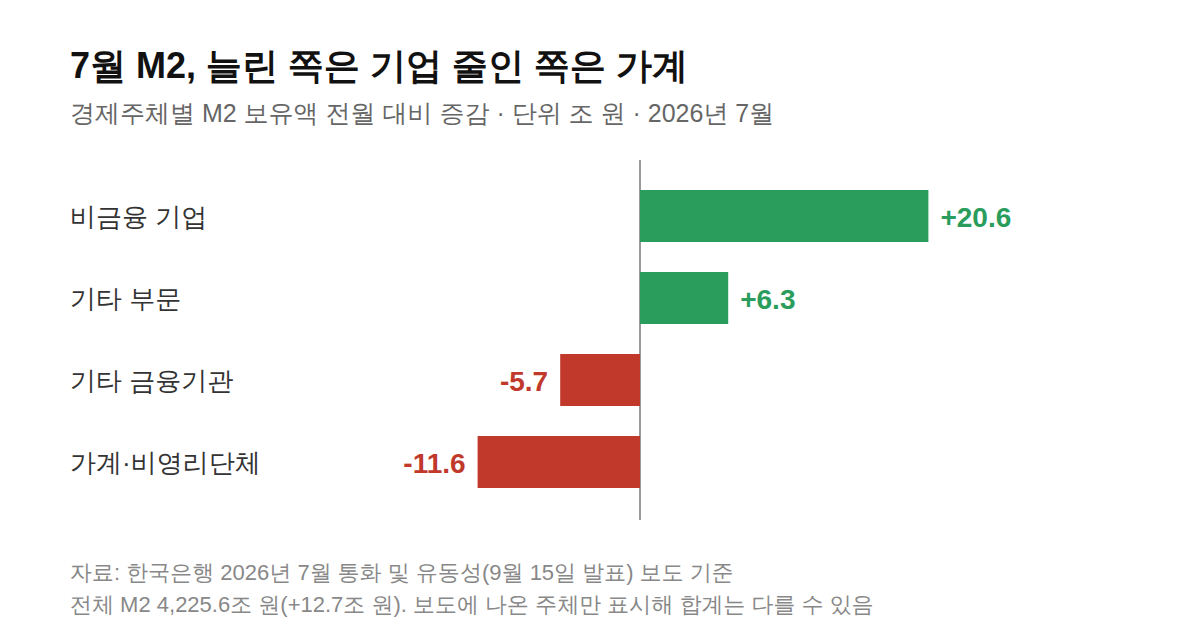
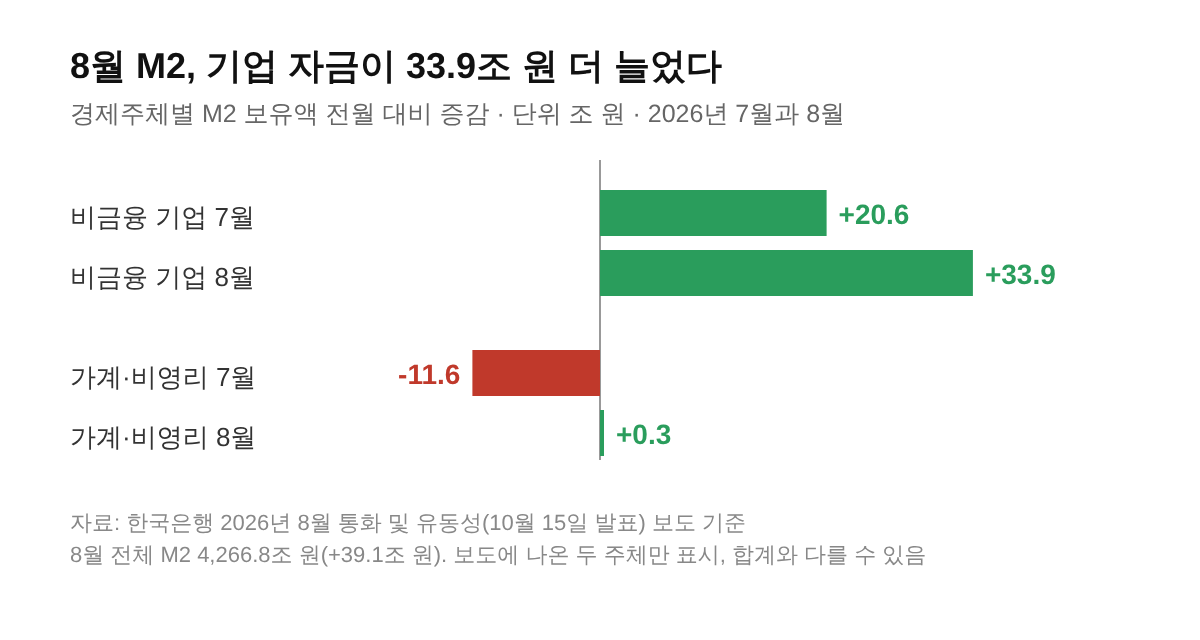
122편 갱신(티스토리 재반영 필요): 8월 M2 4,266.8조 원 반영, 기업·가계 증감 그림 교체, 검산 갱신
Claude-Session: https://claude.ai/code/session_01TDvA8ryNz9WPVNnjpAzoLV

diff --git a/stock_drafts/money-supply-m2-redefinition-guide.md b/stock_drafts/money-supply-m2-redefinition-guide.md
@@ -15,19 +15,19 @@ serp_check: |
   → 탈락조건 1~3 모두 미해당, 통과.
 unique_asset: |
   (a) M1 대 M2 구성 비교표와 개편 전후 비교표(수익증권 제외, 초대형 IB 발행어음 포함).
-  (b) 2026년 7월 M2 현재 수치 표(4,225.6조 원, +12.7조 원 등)와 경제주체별 증감 막대 그림.
-  (c) 보도에 나온 실제 수치로 한 전월 대비 증가율 검산(12.7 / 4,212.9 = 0.30%)과 증가율 계산식.
+  (b) 2026년 8월 M2 현재 수치 표(4,266.8조 원, +39.1조 원 등)와 7·8월 경제주체별 증감 막대 그림.
+  (c) 보도에 나온 실제 수치로 한 전월 대비 증가율 검산(39.1 / 4,227.7 = 0.92%)과 증가율 계산식.
 primary_source: |
   1차 출처인 한국은행 bok.or.kr WebFetch 1회 EGRESS_BLOCKED(2026-10-03). 뉴스 사이트 2곳(joseilbo, SBS Biz) WebFetch도 EGRESS_BLOCKED라 WebSearch 요약 단계 교차검증만 가능했다.
   교차검증: 2025년 12월 개편(수익증권 제외, 초대형 IB 발행어음 포함, 증가율 8.7%에서 5.2%, 총통화 409조 5천억 원 감소, 1년 병행 공표)은 한국경제·메트로서울·조세일보·네이트(연합 계열)가 충돌 없이 일치. 2026년 7월 수치(4,225.6조 원, +12.7조 원, +0.3%, 전년 동월 대비 +5.8%, 9개월 연속 증가, 2년 미만 정기예적금 +27.3조 원, 기업 +20.6조 원·가계 -11.6조 원)는 이투데이·글로벌이코노믹·포인트데일리·와이드경제·서플·네이트가 일치.
   다만 현재 값 유형의 숫자라 RULES 「독자 관점 점검」 4번에 따라 한국은행 보도자료 원문 대조 전에는 gate_pass를 true로 하지 않는다.
-기준일: 2026년 10월 기준 (수치는 2026년 7월 통계, 한국은행 2026년 9월 15일 발표)
-refresh_due: 2026-10-16
+기준일: 2026년 10월 기준 (수치는 2026년 8월 통계, 한국은행 2026년 10월 15일 발표)
+refresh_due: 2026-11-16
 tags: 통화량, 통화량 뜻, M2, 광의통화, M1 협의통화, 통화 및 유동성, 한국은행 통계 개편, 수익증권 제외, M2 증가율, 주식 용어
 gate_pass: true
 gate_pass_note: |
   게이트1·2·3 충족. 게이트4는 교차검증으로 진행했지만 현재 수치(2026년 7월 M2)가 한국은행 원문 미확인이라 gate_pass:false. 발행 전 사람이 할 일: capture_guide 1순위 화면(7월 통화 및 유동성 보도자료)을 캡처해 올려주세요. 값이 일치하면 gate_pass를 true로 바꾸면 됩니다. 8월 통계가 10월 15일 발표 예정이라 그 전에 발행하면 refresh_due(10월 16일)에 바로 갱신 대상이 됩니다.
-  [2026-10-05 보류 해제] 2026년 7월 M2 수치와 개편 내용은 보도 6곳 이상이 같은 숫자로 일치 — 「주제 선정 v3」·지표 현재값 규칙(언론 2곳 이상 동일 수치면 통과) 적용. 8월분 발표(10/15) 뒤 refresh_due로 갱신.
+  [2026-10-16 갱신: 8월분(10/15 발표) 반영. 헤럴드경제·디지털타임스·이투데이·데일리안·더파워뉴스가 4,266.8조·+39.1조·0.9%·전년 5.6%를 동일하게 보도, 기업 33.9조·가계 0.3조도 일치. 한국은행 원문 미접속] [2026-10-05 보류 해제] 2026년 7월 M2 수치와 개편 내용은 보도 6곳 이상이 같은 숫자로 일치 — 「주제 선정 v3」·지표 현재값 규칙(언론 2곳 이상 동일 수치면 통과) 적용. 8월분 발표(10/15) 뒤 refresh_due로 갱신.
 self_check: |
   후보 경위: backlog.verified의 단순 순서 대기 후보 중 디플레이션 뜻(900회)을 먼저 검토했으나 게이트2에서 한국은행·KDI·기획재정부·위키·KB·토스뱅크·나무위키 등 사전형 SERP로 채워져 탈락조건 1·3에 해당해 backlog에 기록. 다음 후보 통화량 뜻(830회)을 채택. 버핏지수 뜻(640회)은 시가총액·GDP 최신 수치 출처가 없어 이번 편에서 제외.
   YMYL: 종목 추천·목표가·매매시점 없음. M2 증감으로 주가 방향을 단정하지 않고 경로와 한계를 적음.
@@ -42,20 +42,20 @@ self_check: |
 figure_plan: "1장으로 충분 — 경제주체별 M2 증감. 나머지 표는 현재 수치·개편 전후 정의 비교라 표가 읽기 쉬움"
 ---
 
-<p style="font-size:13px;color:#888;">최종 검토일: 2026-10-05</p>
+<p style="font-size:13px;color:#888;">최종 검토일: 2026-10-16</p>
 
 <p>2025년 말 한국은행이 통계를 개편하면서 M2 증가율이 개편 전 8.7%에서 개편 후 5.2%로 3.5%포인트 내려앉았습니다. <mark>통화량 M2는 현금과 요구불예금에 2년 미만 예적금, CD, RP 같은 상품을 더한 광의통화</mark>이고, 개편 뒤에는 ETF 등 수익증권이 빠졌습니다.</p>
 
 <div style="background:#eef8ee;border:2px solid #3a9a4a;border-radius:10px;padding:16px 20px;margin:24px 0;">
   <strong style="color:#1f6b2c;font-size:18px;">🌱 숫자를 읽기 전에 알아 둘 것</strong>
-  <ul style="margin:10px 0 0 0;padding-left:20px;line-height:1.8;"><li>M1은 바로 꺼내 쓰는 돈이고, M2는 거기에 만기 2년 미만의 예적금과 시장형 상품을 더한 범위입니다.</li><li>개편으로 총통화 규모가 409조 5천억 원 줄었고, 개편 후 1년간 새 M2와 옛 M2를 함께 공표합니다.</li><li>2026년 7월 M2는 보도 기준 4,225.6조 원이고, 늘린 쪽은 기업, 줄어든 쪽은 가계였습니다.</li></ul>
+  <ul style="margin:10px 0 0 0;padding-left:20px;line-height:1.8;"><li>M1은 바로 꺼내 쓰는 돈이고, M2는 거기에 만기 2년 미만의 예적금과 시장형 상품을 더한 범위입니다.</li><li>개편으로 총통화 규모가 409조 5천억 원 줄었고, 개편 후 1년간 새 M2와 옛 M2를 함께 공표합니다.</li><li>2026년 8월 M2는 보도 기준 4,266.8조 원으로 한 달 새 39.1조 원(0.9%) 늘었고, 증가분의 대부분은 기업 몫이었습니다.</li></ul>
 </div>
 
 <h2>목차</h2>
 <ol style="line-height:1.9;">
   <li><a href="#sec-1" style="color:inherit;text-decoration:underline;text-underline-offset:3px;">통화량 M1과 M2는 무엇이 다른가</a></li>
   <li><a href="#sec-2" style="color:inherit;text-decoration:underline;text-underline-offset:3px;">2025년 말 개편으로 M2에서 빠진 것과 들어온 것</a></li>
-  <li><a href="#sec-3" style="color:inherit;text-decoration:underline;text-underline-offset:3px;">2026년 7월 M2 현재 수치</a></li>
+  <li><a href="#sec-3" style="color:inherit;text-decoration:underline;text-underline-offset:3px;">2026년 8월 M2 현재 수치</a></li>
   <li><a href="#sec-4" style="color:inherit;text-decoration:underline;text-underline-offset:3px;">M2 증가율 계산법</a></li>
   <li><a href="#sec-5" style="color:inherit;text-decoration:underline;text-underline-offset:3px;">주식 투자자에게 왜 중요한가</a></li>
 </ol>
@@ -98,50 +98,50 @@ figure_plan: "1장으로 충분 — 경제주체별 M2 증감. 나머지 표는 
 
 <p>같은 돈이라도 어디에 담겨 있느냐에 따라 M2에 잡히기도, 빠지기도 하는 거죠. A씨가 정기예금 1,000만 원을 해지해 ETF를 사면, 개편 전에는 M2 안에서 자리만 옮겼지만 개편 후에는 M2에서 줄어든 것으로 잡힙니다.</p>
 
-<p>한국은행은 혼선을 줄이려고 개편 후 1년간 새 M2와 옛 M2 총액을 함께 공표한다고 밝혔습니다. 두 숫자가 섞이면 증가율 비교가 어긋나므로 어느 기준인지부터 봐야 해요. 이 글의 4,225.6조 원은 보도에서 개편 후 기준으로 소개된 값입니다.</p>
+<p>한국은행은 혼선을 줄이려고 개편 후 1년간 새 M2와 옛 M2 총액을 함께 공표한다고 밝혔습니다. 두 숫자가 섞이면 증가율 비교가 어긋나므로 어느 기준인지부터 봐야 해요. 이 글의 4,266.8조 원은 보도에서 개편 후 기준으로 소개된 값입니다.</p>
 
 <div style="background:#eef8ee;border:2px solid #3a9a4a;border-radius:10px;padding:16px 20px;margin:24px 0;">
   <strong style="color:#1f6b2c;font-size:18px;">💡 ETF가 빠지면 달라지는 점</strong>
   <ul style="margin:10px 0 0 0;padding-left:20px;line-height:1.8;"><li>예금에서 ETF·펀드로 돈이 옮겨 가면 새 M2는 줄어드는 쪽으로 움직입니다.</li><li>ETF가 무엇인지 먼저 알고 싶다면 <a href="https://sensitiveboss3.tistory.com/entry/etf-basics-holdings" target="_blank" rel="noopener">ETF 뜻과 구성 종목 보는 법</a> 글부터 읽어 보세요.</li></ul>
 </div>
 
-<h2 id="sec-3" style="scroll-margin-top:72px;border-left:6px solid #3a9a4a;padding-left:12px;margin-top:36px;">2026년 7월 M2 현재 수치</h2>
+<h2 id="sec-3" style="scroll-margin-top:72px;border-left:6px solid #3a9a4a;padding-left:12px;margin-top:36px;">2026년 8월 M2 현재 수치</h2>
 
-<p>2026년 7월 M2 평균 잔액은 4,225.6조 원으로, 전월보다 12.7조 원(0.3%) 늘어 9개월 연속 증가했습니다. 아래 수치는 한국은행이 2026년 9월 15일 발표한 내용을 전한 보도를 교차해 정리한 값입니다.</p>
+<p>2026년 8월 M2 평균 잔액은 4,266.8조 원으로, 전월보다 39.1조 원(0.9%) 늘어 10개월 연속 증가했습니다. 아래 수치는 한국은행이 2026년 10월 15일 발표한 내용을 전한 보도를 교차해 정리한 값입니다.</p>
 
 <table style="border-collapse:collapse;width:100%;margin:16px 0;font-size:14px;">
-  <caption style="text-align:left;font-weight:bold;padding-bottom:6px;">M2(광의통화, 계절조정 평잔) 최신 수치 (보도 기준 2026년 10월 3일)</caption>
+  <caption style="text-align:left;font-weight:bold;padding-bottom:6px;">M2(광의통화, 계절조정 평잔) 최신 수치 (보도 기준 2026년 10월 16일)</caption>
   <thead>
     <tr style="background:#eef8ee;"><th style="border:1px solid #ddd;padding:8px;">항목</th><th style="border:1px solid #ddd;padding:8px;">값</th><th style="border:1px solid #ddd;padding:8px;">기준 시점</th></tr>
   </thead>
   <tbody>
-    <tr><td style="border:1px solid #ddd;padding:8px;">M2 평균 잔액</td><td style="border:1px solid #ddd;padding:8px;">4,225.6조 원</td><td style="border:1px solid #ddd;padding:8px;">2026년 7월</td></tr>
-    <tr><td style="border:1px solid #ddd;padding:8px;">전월 대비 증가</td><td style="border:1px solid #ddd;padding:8px;">+12.7조 원 (+0.3%)</td><td style="border:1px solid #ddd;padding:8px;">2026년 7월</td></tr>
-    <tr><td style="border:1px solid #ddd;padding:8px;">전년 동월 대비</td><td style="border:1px solid #ddd;padding:8px;">+5.8%</td><td style="border:1px solid #ddd;padding:8px;">2026년 7월</td></tr>
-    <tr><td style="border:1px solid #ddd;padding:8px;">2년 미만 정기예적금</td><td style="border:1px solid #ddd;padding:8px;">+27.3조 원 (2022년 12월 이후 최대 증가)</td><td style="border:1px solid #ddd;padding:8px;">2026년 7월</td></tr>
-    <tr><td style="border:1px solid #ddd;padding:8px;">옛 M2(수익증권 포함)</td><td style="border:1px solid #ddd;padding:8px;">전월 대비 0.8% 감소</td><td style="border:1px solid #ddd;padding:8px;">2026년 7월</td></tr>
-    <tr><td style="border:1px solid #ddd;padding:8px;">발표 기관</td><td style="border:1px solid #ddd;padding:8px;"><a href="https://www.bok.or.kr" target="_blank" rel="noopener">한국은행</a> 통화 및 유동성 (통계는 <a href="https://ecos.bok.or.kr" target="_blank" rel="noopener">ECOS</a>)</td><td style="border:1px solid #ddd;padding:8px;">2026년 9월 15일 발표</td></tr>
-    <tr><td style="border:1px solid #ddd;padding:8px;">다음 발표(8월 통계)</td><td style="border:1px solid #ddd;padding:8px;">2026년 10월 15일 예정 (경제지표 일정 서비스 기준)</td><td style="border:1px solid #ddd;padding:8px;">-</td></tr>
+    <tr><td style="border:1px solid #ddd;padding:8px;">M2 평균 잔액</td><td style="border:1px solid #ddd;padding:8px;">4,266.8조 원</td><td style="border:1px solid #ddd;padding:8px;">2026년 8월</td></tr>
+    <tr><td style="border:1px solid #ddd;padding:8px;">전월 대비 증가</td><td style="border:1px solid #ddd;padding:8px;">+39.1조 원 (+0.9%, 7월은 +0.3%)</td><td style="border:1px solid #ddd;padding:8px;">2026년 8월</td></tr>
+    <tr><td style="border:1px solid #ddd;padding:8px;">전년 동월 대비</td><td style="border:1px solid #ddd;padding:8px;">+5.6% (7월은 5.8%)</td><td style="border:1px solid #ddd;padding:8px;">2026년 8월</td></tr>
+    <tr><td style="border:1px solid #ddd;padding:8px;">2년 미만 정기예적금</td><td style="border:1px solid #ddd;padding:8px;">+28.7조 원 (2년 미만 금전신탁 +14.2조 원, MMF +12.6조 원)</td><td style="border:1px solid #ddd;padding:8px;">2026년 8월</td></tr>
+    <tr><td style="border:1px solid #ddd;padding:8px;">옛 M2(수익증권 포함)</td><td style="border:1px solid #ddd;padding:8px;">전월 대비 0.7% 증가 (7월은 0.8% 감소)</td><td style="border:1px solid #ddd;padding:8px;">2026년 8월</td></tr>
+    <tr><td style="border:1px solid #ddd;padding:8px;">발표 기관</td><td style="border:1px solid #ddd;padding:8px;"><a href="https://www.bok.or.kr" target="_blank" rel="noopener">한국은행</a> 통화 및 유동성 (통계는 <a href="https://ecos.bok.or.kr" target="_blank" rel="noopener">ECOS</a>)</td><td style="border:1px solid #ddd;padding:8px;">2026년 10월 15일 발표</td></tr>
+    <tr><td style="border:1px solid #ddd;padding:8px;">다음 발표(9월 통계)</td><td style="border:1px solid #ddd;padding:8px;">2026년 11월 중순 (한국은행 발표 일정 미확인)</td><td style="border:1px solid #ddd;padding:8px;">-</td></tr>
   </tbody>
 </table>
 
-<p>위 값은 보도 6곳 이상이 일치한 내용이고, 한국은행 원문 대조는 아직 거치지 않았습니다. 발표가 나오면 이 표를 새 값으로 바꿀 거예요.</p>
+<p>위 값은 보도 5곳 이상이 같은 숫자로 전한 내용이고, 한국은행 원문 대조는 아직 거치지 않았습니다. 9월 통계가 나오면 이 표를 새 값으로 바꿀 거예요.</p>
 
-<figure style="margin:24px 0;"><img src="https://raw.githubusercontent.com/leoleo0813/blog-automation/main/assets/figures/money-supply-m2-redefinition-guide-1.png" alt="2026년 7월 경제주체별 M2 증감 막대 그림. 비금융 기업 20.6조 원 증가, 기타 부문 6.3조 원 증가, 기타 금융기관 5.7조 원 감소, 가계·비영리단체 11.6조 원 감소" style="max-width:100%;"><figcaption style="font-size:13px;color:#888;">자료: 한국은행 2026년 7월 통화 및 유동성 보도 내용, 2026년 9월 15일 발표</figcaption></figure>
+<figure style="margin:24px 0;"><img src="https://raw.githubusercontent.com/leoleo0813/blog-automation/main/assets/figures/money-supply-m2-redefinition-guide-1.png" alt="7월과 8월 경제주체별 M2 증감 막대 그림. 비금융 기업은 7월 20.6조 원, 8월 33.9조 원 증가. 가계·비영리단체는 7월 11.6조 원 감소, 8월 0.3조 원 증가" style="max-width:100%;"><figcaption style="font-size:13px;color:#888;">자료: 한국은행 2026년 7월(9월 15일 발표)·8월(10월 15일 발표) 통화 및 유동성 보도 내용</figcaption></figure>
 
-<p><mark>기업은 20.6조 원 늘었고 가계·비영리단체는 11.6조 원 줄었습니다.</mark> 반도체 수출이 좋은 기업의 여유 자금이 예적금으로 들어온 반면, 가계는 수시입출식 예금이 크게 줄었다고 보도됐어요.</p>
+<p><mark>8월 증가분 39.1조 원 가운데 비금융 기업이 33.9조 원을 차지했고, 7월에 11.6조 원 줄었던 가계·비영리단체는 0.3조 원 늘며 증가로 돌아섰습니다.</mark> 반도체 등 기업의 여유 자금이 예적금으로 몰렸다고 보도됐어요.</p>
 
 <h2 id="sec-4" style="scroll-margin-top:72px;border-left:6px solid #3a9a4a;padding-left:12px;margin-top:36px;">M2 증가율 계산법</h2>
 
-<p>증가율은 (비교 시점 값 - 기준 시점 값) ÷ 기준 시점 값 x 100으로 구합니다. 7월 수치로 직접 검산해 볼게요.</p>
+<p>증가율은 (비교 시점 값 - 기준 시점 값) ÷ 기준 시점 값 x 100으로 구합니다. 8월 수치로 직접 검산해 볼게요.</p>
 
 <ol>
-  <li>7월 M2 4,225.6조 원에서 증가액 12.7조 원을 빼면 6월은 4,212.9조 원입니다.</li>
-  <li>12.7 ÷ 4,212.9 = 0.0030이라 약 0.30%입니다.</li>
-  <li>보도된 전월 대비 0.3%와 같은 값이에요.</li>
+  <li>8월 M2 4,266.8조 원에서 증가액 39.1조 원을 빼면 7월은 4,227.7조 원입니다.</li>
+  <li>39.1 ÷ 4,227.7 = 0.0092라 약 0.9%입니다.</li>
+  <li>보도된 전월 대비 0.9%와 같은 값이에요. 7월 발표 때의 4,225.6조 원과 조금 차이가 나는데, 통계 수정 때문으로 보입니다.</li>
 </ol>
 
-<p>전월 대비 0.3%를 12개월로 곱하면 약 3.6%가 되어 전년 동월 대비 5.8%와는 다릅니다. 두 숫자는 비교 기준이 달라서 섞어 읽으면 안 돼요. 복리로 이어 붙이는 계산은 <a href="https://sensitiveboss3.tistory.com/entry/gdp-meaning-nominal-real-calculation" target="_blank" rel="noopener">GDP 뜻과 명목 실질 계산</a> 글의 성장률 설명과 같은 방식입니다.</p>
+<p>전월 대비 0.9%를 12개월로 곱하면 약 10.8%가 되어 전년 동월 대비 5.6%와는 크게 다릅니다. 두 숫자는 비교 기준이 달라서 섞어 읽으면 안 돼요. 복리로 이어 붙이는 계산은 <a href="https://sensitiveboss3.tistory.com/entry/gdp-meaning-nominal-real-calculation" target="_blank" rel="noopener">GDP 뜻과 명목 실질 계산</a> 글의 성장률 설명과 같은 방식입니다.</p>
 
 <h2 id="sec-5" style="scroll-margin-top:72px;border-left:6px solid #3a9a4a;padding-left:12px;margin-top:36px;">주식 투자자에게 왜 중요한가</h2>
 
@@ -177,7 +177,7 @@ figure_plan: "1장으로 충분 — 경제주체별 M2 증감. 나머지 표는 
     <li><a href="https://ecos.bok.or.kr" target="_blank" rel="noopener">한국은행 경제통계시스템 ECOS - M2 통계</a></li>
     <li><a href="https://eiec.kdi.re.kr/policy/materialView.do?num=285416" target="_blank" rel="noopener">KDI 경제교육·정보센터 - 2026년 6월 통화 및 유동성</a></li>
     <li><a href="https://www.hankyung.com/amp/2025123034211" target="_blank" rel="noopener">한국경제 - 한은, 통화량 통계에서 ETF 제외</a></li>
-    <li><a href="https://www.etoday.co.kr/news/view/2625597" target="_blank" rel="noopener">이투데이 - 7월 시중에 풀린 돈, 9개월째 증가</a></li>
+    <li><a href="https://www.etoday.co.kr/news/view/2636105" target="_blank" rel="noopener">이투데이 - 8월 시중에 풀린 돈, 기업 이어 가계자금도 증가전환</a></li>
   </ul>
 </div>
 
@@ -188,7 +188,7 @@ figure_plan: "1장으로 충분 — 경제주체별 M2 증감. 나머지 표는 
   "@context": "https://schema.org",
   "@type": "Article",
   "headline": "통화량 M2 뜻과 개편 후 달라진 점",
-  "description": "통화량 M2와 M1의 차이, 2025년 말 한국은행 통계 개편으로 ETF 등 수익증권이 빠진 내용, 2026년 7월 M2 4,225.6조 원 수치와 증가율 계산법을 정리했습니다.",
+  "description": "통화량 M2와 M1의 차이, 2025년 말 한국은행 통계 개편으로 ETF 등 수익증권이 빠진 내용, 2026년 8월 M2 4,266.8조 원 수치와 증가율 계산법을 정리했습니다.",
   "author": {
     "@type": "Person",
     "name": "센시티브보스"
@@ -198,7 +198,7 @@ figure_plan: "1장으로 충분 — 경제주체별 M2 증감. 나머지 표는 
     "name": "센시티브보스"
   },
   "datePublished": "2026-10-03",
-  "dateModified": "2026-10-05",
+  "dateModified": "2026-10-16",
   "mainEntityOfPage": {
     "@type": "WebPage",
     "@id": "https://sensitiveboss3.tistory.com/entry/money-supply-m2-redefinition-guide"
